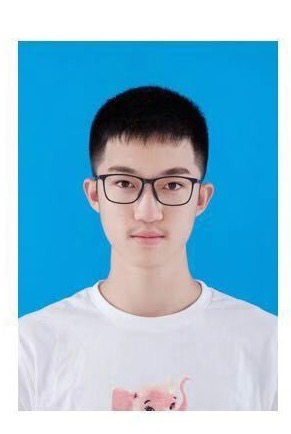
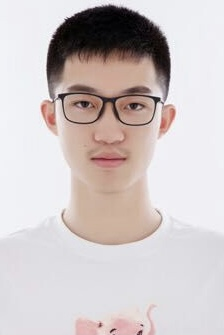
change photo

diff --git a/index.html b/index.html
@@ -39,7 +39,7 @@
               </p>
             </td>
             <td style="width:25%;max-width:40%">
-              <a href="images/scgao_photo.JPG"><img style="width:100%;max-width:100%" alt="profile photo" src="images/scgao_photo.JPG" class="hoverZoomLink"></a>
+              <a href="images/scgao_photo.jpg"><img style="width:100%;max-width:100%" alt="profile photo" src="images/scgao_photo.jpg" class="hoverZoomLink"></a>
             </td>
           </tr>
         </tbody></table>
